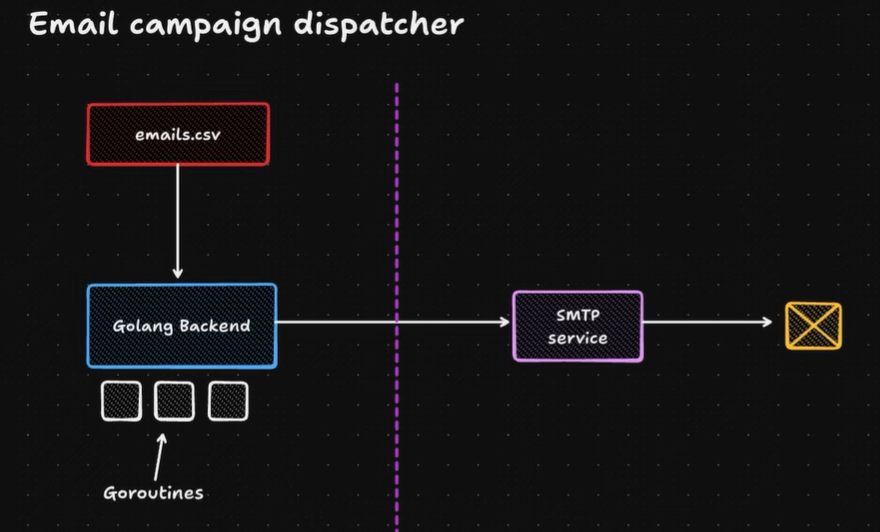
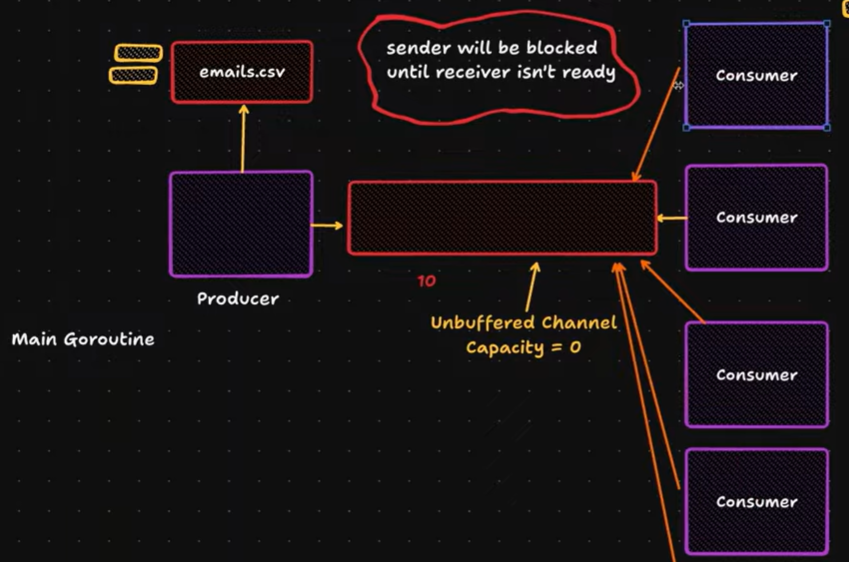
create:consumer;&waitgroups

Changed region(s): [[0.0, 0.0, 0.98, 1.0], [0.98, 0.0, 1.0, 0.0301]]

diff --git a/producer.go b/producer.go
@@ -2,11 +2,11 @@ package main
 
 import (
 	"encoding/csv"
-	"fmt"
 	"os"
 )
 
 func loadRecipient(filePath string, ch chan Recipient) error {
+	defer close(ch)
 	f, err :=os.Open(filePath)
 	if err != nil {
 		return err
@@ -21,7 +21,7 @@ func loadRecipient(filePath string, ch chan Recipient) error {
 	}
 
 	for _, record := range records[1:] {
-		fmt.Println(record)
+		// fmt.Println(record)
 		// send -> consumer -> channels
 		ch <- Recipient{
 			Name:  record[0],

diff --git a/main.go b/main.go
@@ -1,4 +1,7 @@
 package main
+
+import "sync"
+
 type Recipient struct {
 	Name  string
 	Email string
@@ -7,5 +10,15 @@ type Recipient struct {
 func main() {
 	recipientChannel := make(chan Recipient)
 	
-	loadRecipient("email.csv", recipientChannel)
+	go loadRecipient("email.csv", recipientChannel)
+
+	var wg sync.WaitGroup
+	workerCount := 5
+
+	for i := 0; i <= workerCount; i++ {
+		wg.Add(1)
+		go emailWorker(i, recipientChannel, &wg)
+	}
+
+	wg.Wait()
 }

diff --git a/consumer.go b/consumer.go
@@ -1,0 +1,13 @@
+package main
+
+import (
+	"fmt"
+	"sync"
+)
+
+func emailWorker(id int, ch chan Recipient, wg *sync.WaitGroup) {
+	defer wg.Done()
+	for recipient:= range ch {
+		fmt.Println(id, recipient)
+	}
+}
